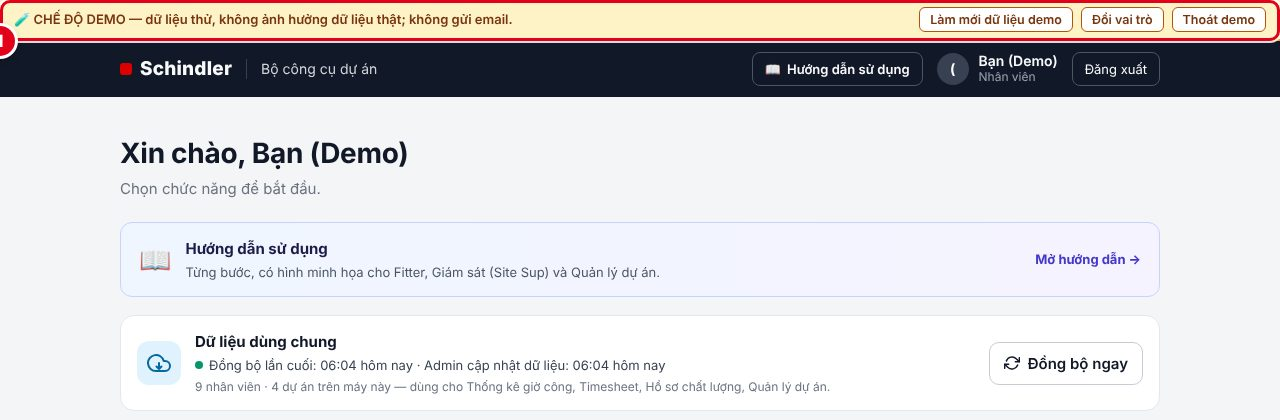
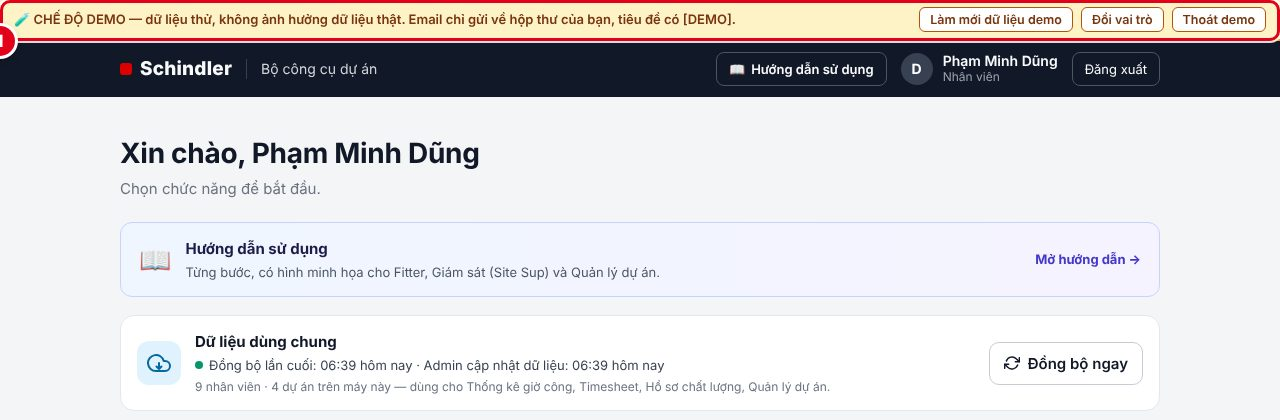
Demo chạy như thật: gửi email (chỉ về người thử, có [DEMO]) và duyệt bảng công trọn luồng
- Người thử đóng vai nhân viên mẫu: Fitter = Phạm Minh Dũng, Site Sup = Trần Thị Bình,
  QLDA = Nguyễn Văn An, Quản trị viên. Đổi vai trò (POST /api/demo/role) chỉ chuyển email
  sang nhân viên khác, GIỮ dữ liệu → thử được Fitter nộp → Site Sup duyệt → QLDA duyệt →
  vào bảng Theo dõi giờ công
- Dữ liệu mẫu: kỳ trước của Fitter chấm đủ chờ nộp, kỳ này chấm đến hôm qua; một bảng công
  chờ Site Sup, một chờ QLDA; nhân viên mẫu khác có email giả <mã>@demo.invalid
- Email demo gửi thật qua Brevo nhưng luôn chỉ tới email người đang thử: tiêu đề [DEMO],
  khung vàng "THƯ DEMO" ghi rõ trong hệ thống thật thư sẽ tới ai; tối đa 60 thư / ngày
- Gợi ý người nhận mail báo cáo ngày trả email người thử; thư tự soạn trong Timesheet có
  [DEMO] ở tiêu đề và dòng đầu thư
- Sửa: hộp Chạy thử nằm trong màn hình bị ẩn nên người chưa được cấp quyền bấm không mở
  được — đưa ra ngoài
- Hộp chọn vai trò ghi tên nhân viên mẫu + 3 bước thử; thanh DEMO, tài liệu hướng dẫn,
  README cập nhật; SW v64

Claude-Session: https://claude.ai/code/session_013Aca6Aq9pjXkV1DmQMR7fz

diff --git a/index.html b/index.html
@@ -169,6 +169,9 @@
   .demo-roles { display: grid; grid-template-columns: repeat(auto-fit, minmax(190px, 1fr)); gap: 10px; margin: 10px 0 6px; }
   .demo-roles button { text-align: left; border: 1px solid #d1d5db; background: #fff; border-radius: 10px; padding: 10px 12px; cursor: pointer; font: inherit; }
   .demo-roles button:hover, .demo-roles button:focus-visible { border-color: #f59e0b; background: #fffbeb; outline: none; }
+  .demo-flow { margin: 4px 0 8px; padding-left: 20px; font-size: 13.5px; color: var(--ink-2); }
+  .demo-flow li { margin: 3px 0; }
+  .demo-keep { font-size: 13px; color: #78350f; background: #fffbeb; border: 1px solid #fde68a; border-radius: 8px; padding: 8px 10px; }
   .demo-roles small { display: block; color: #6b7280; margin-top: 2px; font-size: 12px; }
   .soon-badge { font-size: 11px; font-weight: 600; color: var(--warn-ink); background: var(--warn-bg);
     border: 1px solid var(--warn-line); border-radius: 999px; padding: 1px 8px; white-space: nowrap; }
@@ -379,20 +382,6 @@
     <button type="button" class="btn-install" id="btnInstall">Cài đặt</button>
   </section>
 
-  <dialog class="dlg" id="demoDlg" aria-labelledby="demoTitle">
-    <form method="dialog">
-      <div class="dlg-head"><div><span class="soon-badge">Chạy thử</span><h2 id="demoTitle">Chế độ Demo</h2></div></div>
-      <p>Dùng thử toàn bộ hệ thống với <b>dữ liệu mẫu bịa</b> trên một cơ sở dữ liệu riêng — <b>không ảnh hưởng dữ liệu thật</b>, không gửi email. Chọn vai trò muốn thử:</p>
-      <div class="demo-roles">
-        <button type="button" data-role="admin"><b>Quản trị viên</b><small>Nhân viên, dự án, tài khoản, nạp bảng công</small></button>
-        <button type="button" data-role="pm"><b>Quản lý dự án</b><small>Duyệt bảng công cấp 2, điều phối</small></button>
-        <button type="button" data-role="sitesup"><b>Site Sup</b><small>Duyệt bảng công fitter (cấp 1)</small></button>
-        <button type="button" data-role="staff"><b>Nhân viên / Fitter</b><small>Chấm công, nộp bảng công</small></button>
-      </div>
-      <p class="dlg-sub" id="demoMsg" role="status"></p>
-      <button class="btn-primary" value="cancel" type="submit">Đóng</button>
-    </form>
-  </dialog>
 
   <dialog class="dlg" id="soonDlg" aria-labelledby="soonTitle">
     <form method="dialog">
@@ -408,6 +397,28 @@
   </dialog>
 </main>
 
+<!-- hộp Chạy thử nằm ngoài các màn hình: mở được cả khi chưa đăng nhập / email chưa được cấp quyền -->
+<dialog class="dlg" id="demoDlg" aria-labelledby="demoTitle">
+  <form method="dialog">
+    <div class="dlg-head"><div><span class="soon-badge">Chạy thử</span><h2 id="demoTitle">Chế độ Demo</h2></div></div>
+    <p id="demoIntro">Dùng thử toàn bộ hệ thống với <b>dữ liệu mẫu bịa</b> trên một cơ sở dữ liệu riêng — <b>không ảnh hưởng dữ liệu thật</b>. Nộp, duyệt, trả lại bảng công chạy <b>như thật</b>; email thông báo chỉ gửi về hộp thư của bạn, tiêu đề có <b>[DEMO]</b>. Chọn vai trò muốn thử:</p>
+    <div class="demo-roles">
+      <button type="button" data-role="staff"><b>Fitter</b><small>Phạm Minh Dũng · chấm công, nộp bảng công</small></button>
+      <button type="button" data-role="sitesup"><b>Site Sup</b><small>Trần Thị Bình · duyệt bảng công cấp 1</small></button>
+      <button type="button" data-role="pm"><b>Quản lý dự án</b><small>Nguyễn Văn An · duyệt cấp 2, điều phối</small></button>
+      <button type="button" data-role="admin"><b>Quản trị viên</b><small>Nhân viên, dự án, tài khoản, nạp bảng công</small></button>
+    </div>
+    <ol class="demo-flow">
+      <li><b>Fitter</b>: mở <i>Timesheet cá nhân</i>, lùi về kỳ trước (đã chấm đủ) → bấm <b>Nộp bảng công</b>.</li>
+      <li><b>Đổi vai trò → Site Sup</b>: mở <i>Duyệt bảng công</i> → duyệt (hoặc trả lại kèm lý do).</li>
+      <li><b>Đổi vai trò → Quản lý dự án</b>: duyệt lần 2 → bảng công vào <i>Thống kê giờ công</i>.</li>
+    </ol>
+    <p class="demo-keep" id="demoKeep" hidden>Đổi vai trò <b>giữ nguyên dữ liệu</b> bạn đã làm trong demo. Muốn làm lại từ đầu: bấm <b>Làm mới dữ liệu demo</b> trên thanh vàng.</p>
+    <p class="dlg-sub" id="demoMsg" role="status"></p>
+    <button class="btn-primary" value="cancel" type="submit">Đóng</button>
+  </form>
+</dialog>
+
 <footer>
   <div class="wrap">
     <span>Mỗi chức năng lưu dữ liệu riêng. Dữ liệu Timesheet cá nhân chỉ nằm trên trình duyệt của bạn.</span>
@@ -416,7 +427,7 @@
   </div>
 </footer>
 
-<script src="js/demo.js?v=1"></script>
+<script src="js/demo.js?v=2"></script>
 <script src="js/config.js?v=37"></script>
 <script src="js/db.js?v=37"></script>
 <script src="js/cloud.js?v=42"></script>
@@ -722,11 +733,13 @@
     if (!TsDemo.on) TsDemo.available().then((st) => { if (st.available) btn.hidden = false; });
     btn.addEventListener('click', openDemo);
     dlg.addEventListener('click', (ev) => { if (ev.target === dlg) dlg.close(); });
+    // đang ở demo: chọn vai trò = đổi vai, giữ dữ liệu; chưa ở demo: dựng dữ liệu mẫu mới
+    if (TsDemo.on) { $('demoTitle').textContent = 'Đổi vai trò (Demo)'; $('demoKeep').hidden = false; }
     dlg.querySelectorAll('.demo-roles button').forEach((b) => b.addEventListener('click', async () => {
-      $('demoMsg').textContent = 'Đang dựng dữ liệu mẫu…';
+      $('demoMsg').textContent = TsDemo.on ? 'Đang đổi vai trò…' : 'Đang dựng dữ liệu mẫu…';
       dlg.querySelectorAll('button').forEach((x) => { x.disabled = true; });
-      try { await TsDemo.start(b.dataset.role); }
-      catch (e) { $('demoMsg').textContent = 'Không vào được demo: ' + e.message; dlg.querySelectorAll('button').forEach((x) => { x.disabled = false; }); }
+      try { await (TsDemo.on ? TsDemo.role(b.dataset.role) : TsDemo.start(b.dataset.role)); }
+      catch (e) { $('demoMsg').textContent = (TsDemo.on ? 'Không đổi được vai trò: ' : 'Không vào được demo: ') + e.message; dlg.querySelectorAll('button').forEach((x) => { x.disabled = false; }); }
     }));
     if (location.hash === '#demo') { history.replaceState(null, '', location.pathname); setTimeout(openDemo, 400); }
   }

diff --git a/huong-dan.html b/huong-dan.html
@@ -311,12 +311,20 @@
     </div>
 
     <h3 id="demo">1.4. Chạy thử (Demo) — tập dùng không sợ sai</h3>
-    <p>Muốn thử bấm các nút mà không ảnh hưởng dữ liệu thật? Bấm <span class="btnlike">🧪 Chạy thử (Demo)</span> ở <b>chân trang chủ</b>, chọn vai trò muốn thử.</p>
+    <p>Muốn thử bấm các nút mà không ảnh hưởng dữ liệu thật? Bấm <span class="btnlike">🧪 Chạy thử (Demo)</span> ở <b>chân trang chủ</b> (dùng được cả khi email chưa được cấp quyền), chọn vai trò muốn thử. Mỗi vai trò là một nhân viên mẫu: <b>Fitter</b> — Phạm Minh Dũng, <b>Site Sup</b> — Trần Thị Bình, <b>Quản lý dự án</b> — Nguyễn Văn An.</p>
     <div class="pair">
       <figure class="shot"><img src="docs/huong-dan/demo-dialog.jpg" alt="Hộp chọn vai trò chạy thử" loading="lazy" width="1280" height="800"><figcaption>Chọn vai trò muốn thử</figcaption></figure>
       <figure class="shot"><img src="docs/huong-dan/demo-banner.jpg" alt="Thanh vàng CHẾ ĐỘ DEMO" loading="lazy" width="1280" height="420"><figcaption>Đang ở chế độ demo: thanh vàng luôn hiện ở đầu trang</figcaption></figure>
     </div>
-    <ol class="legend"><li>Thanh vàng <b>CHẾ ĐỘ DEMO</b>: dữ liệu mẫu riêng, <b>không ảnh hưởng dữ liệu thật</b>, không gửi email. Có nút <span class="btnlike">Làm mới dữ liệu demo</span>, <span class="btnlike">Đổi vai trò</span>, <span class="btnlike">Thoát demo</span>.</li></ol>
+    <ol class="legend"><li>Thanh vàng <b>CHẾ ĐỘ DEMO</b>: dữ liệu mẫu riêng, <b>không ảnh hưởng dữ liệu thật</b>. Có nút <span class="btnlike">Làm mới dữ liệu demo</span>, <span class="btnlike">Đổi vai trò</span>, <span class="btnlike">Thoát demo</span>.</li></ol>
+    <p><b>Demo chạy như thật</b> — thử trọn một vòng bảng công:</p>
+    <ol class="steps">
+      <li>Vai <b>Fitter</b>: mở <i>Timesheet cá nhân</i>, bấm <span class="btnlike">‹</span> về kỳ trước (đã chấm đủ) → <span class="btnlike">Nộp bảng công</span>.</li>
+      <li><span class="btnlike">Đổi vai trò</span> → <b>Site Sup</b>: mở <i>Duyệt bảng công</i>, duyệt hoặc trả lại kèm lý do.</li>
+      <li><span class="btnlike">Đổi vai trò</span> → <b>Quản lý dự án</b>: duyệt lần 2 → bảng công tự vào <i>Thống kê giờ công</i>.</li>
+    </ol>
+    <p>Đổi vai trò <b>giữ nguyên dữ liệu</b> đã làm. Muốn làm lại từ đầu: <span class="btnlike">Làm mới dữ liệu demo</span>.</p>
+    <div class="note info"><p>📧 <b>Email trong demo vẫn gửi thật, nhưng chỉ về hộp thư của bạn</b> (email đang đăng nhập). Tiêu đề bắt đầu bằng <b>[DEMO]</b>, đầu thư có khung vàng <b>“THƯ DEMO”</b> ghi rõ trong hệ thống thật thư sẽ gửi tới ai. Thư tự soạn trong Timesheet (Gửi mail, Báo cáo ngày) cũng có <b>[DEMO]</b> ở tiêu đề.</p></div>
     <div class="note warn"><p>Nhớ bấm <b>Thoát demo</b> khi thử xong — chấm công thật phải làm ngoài chế độ demo.</p></div>
   </section>
 
@@ -654,7 +662,7 @@
     <details class="faq"><summary>Không thấy chức năng Duyệt bảng công / Quản lý dự án?</summary><p>Các chức năng này theo <b>vai trò</b> (từ chức danh). Nếu chức danh của bạn đã thay đổi, báo quản trị viên cập nhật; đăng xuất rồi đăng nhập lại.</p></details>
     <details class="faq"><summary>Không nhận được mã đăng nhập?</summary><p>Xem thư mục Spam / Quảng cáo; kiểm tra gõ đúng email; đợi 1 phút rồi bấm gửi lại. Vẫn không được → báo quản trị viên.</p></details>
     <details class="faq"><summary>Site Sup / Quản lý không nhận được bảng công tôi nộp?</summary><p>Người duyệt được xác định theo <b>dự án (WBS)</b> trên các dòng chấm công. Kiểm tra dòng chấm công đã ghi đúng dự án và WBS; báo quản trị viên kiểm tra phân công Site Sup / Quản lý dự án cho dự án đó.</p></details>
-    <details class="faq"><summary>Chế độ Demo có làm mất dữ liệu thật không?</summary><p>Không. Demo dùng cơ sở dữ liệu riêng và tách riêng dữ liệu trên trình duyệt. Bấm <b>Thoát demo</b> là về đúng tài khoản và dữ liệu thật.</p></details>
+    <details class="faq"><summary>Chế độ Demo có làm mất dữ liệu thật không?</summary><p>Không. Demo dùng cơ sở dữ liệu riêng và tách riêng dữ liệu trên trình duyệt. Email demo chỉ gửi về chính bạn (tiêu đề <b>[DEMO]</b>), không tới giám sát / quản lý thật. Bấm <b>Thoát demo</b> là về đúng tài khoản và dữ liệu thật.</p></details>
     <details class="faq"><summary>Muốn in tài liệu hướng dẫn này?</summary><p>Bấm <b>🖨 In / Lưu PDF</b> ở góc trên, chọn máy in hoặc “Lưu dưới dạng PDF”. Mỗi phần in bắt đầu từ trang mới.</p></details>
   </section>
 

diff --git a/tools/timesheet/src/app.jsx b/tools/timesheet/src/app.jsx
@@ -1523,6 +1523,15 @@
         const EMAIL_RE = /^[^@\s,;]+@[^@\s,;]+\.[^@\s,;]+$/;
         const parseEmails = (s) => String(s || '').split(/[,;\s]+/).map(x => x.trim()).filter(Boolean);
         const MAILTO_MAX = 1900; // một số ứng dụng mail cắt / từ chối link mailto dài hơn ~2000 ký tự
+        // chế độ Demo: thư tự soạn ghi rõ là thư demo (tiêu đề [DEMO] + dòng đầu thư)
+        const IS_DEMO = typeof TsDemo !== 'undefined' && !!TsDemo.on;
+        // demo: gợi ý gửi về chính email đăng nhập (người nhận thật trong dữ liệu mẫu chỉ là địa chỉ giả)
+        const demoMyEmail = () => { try { const s = IS_DEMO && Session.current(); return (s && s.email) || ''; } catch (e) { return ''; } };
+        const demoMark = (m) => (IS_DEMO ? {
+            subject: '[DEMO] ' + m.subject,
+            body: '*** THƯ DEMO — dữ liệu chạy thử, không phải bảng công thật ***\n\n' + m.body,
+            shortBody: '*** THƯ DEMO — dữ liệu chạy thử ***\n\n' + m.shortBody,
+        } : m);
 
         function buildMailText(d, profile, period, month, supervisorName) {
             const [y, m] = month.split('-');
@@ -1549,7 +1558,7 @@
             const tail = ['', 'File bảng chấm công Excel đính kèm.', '', 'Trân trọng,', name];
             const body = [...head, leave, ...projects, ...missing, ...tail].join('\n');
             const shortBody = [...head, leave, ...missing, ...tail].join('\n'); // cho link mailto quá dài
-            return { subject, body, shortBody };
+            return demoMark({ subject, body, shortBody });
         }
 
         // Thư báo cáo thi công trong ngày (fitter tự gửi giám sát / quản lý)
@@ -1569,7 +1578,7 @@
             const head = ['Kính gửi Anh/Chị,', '', `Báo cáo thi công ngày ${WEEKDAYS_LONG[weekdayOf(date)]} ${fmtDMY(date)} của ${name}${profile.empId ? ` (${profile.empId})` : ''}:`, ''];
             const tail = ['', list.length ? `Tổng: ${fmtH(total)} giờ (thường ${fmtH(normal)}, tăng ca ${fmtH(total - normal)}).` : 'Hôm nay chưa có dòng chấm công.', '', 'Trân trọng,', name];
             const body = [...head, ...(lines.length ? lines.join('\n\n').split('\n') : []), ...tail].join('\n');
-            return { subject, body, shortBody: body.length > 1500 ? body.slice(0, 1400) + '\n…' : body };
+            return demoMark({ subject, body, shortBody: body.length > 1500 ? body.slice(0, 1400) + '\n…' : body });
         }
 
         const canShareFiles = () => {
@@ -1584,7 +1593,7 @@
         };
 
         function MailPanel({ profile, setProfile, file, mail, supervisorName, onSent, onCancel, noFile, initTo, initCc, toLabel, toHint }) {
-            const [to, setTo] = useState(initTo !== undefined ? initTo : (profile.mailTo || ''));
+            const [to, setTo] = useState(initTo !== undefined ? initTo : (profile.mailTo || demoMyEmail()));
             const [cc, setCc] = useState(initCc !== undefined ? initCc : (profile.mailCc || ''));
             const [subject, setSubject] = useState(mail.subject);
             const [body, setBody] = useState(mail.body);

diff --git a/tools/timesheet/app.js b/tools/timesheet/app.js
@@ -2968,7 +2968,22 @@ function ReportView({
 const EMAIL_RE = /^[^@\s,;]+@[^@\s,;]+\.[^@\s,;]+$/;
 const parseEmails = s => String(s || '').split(/[,;\s]+/).map(x => x.trim()).filter(Boolean);
 const MAILTO_MAX = 1900; // một số ứng dụng mail cắt / từ chối link mailto dài hơn ~2000 ký tự
-
+// chế độ Demo: thư tự soạn ghi rõ là thư demo (tiêu đề [DEMO] + dòng đầu thư)
+const IS_DEMO = typeof TsDemo !== 'undefined' && !!TsDemo.on;
+// demo: gợi ý gửi về chính email đăng nhập (người nhận thật trong dữ liệu mẫu chỉ là địa chỉ giả)
+const demoMyEmail = () => {
+  try {
+    const s = IS_DEMO && Session.current();
+    return s && s.email || '';
+  } catch (e) {
+    return '';
+  }
+};
+const demoMark = m => IS_DEMO ? {
+  subject: '[DEMO] ' + m.subject,
+  body: '*** THƯ DEMO — dữ liệu chạy thử, không phải bảng công thật ***\n\n' + m.body,
+  shortBody: '*** THƯ DEMO — dữ liệu chạy thử ***\n\n' + m.shortBody
+} : m;
 function buildMailText(d, profile, period, month, supervisorName) {
   const [y, m] = month.split('-');
   const kp = `kỳ lương tháng ${parseInt(m, 10)}/${y} (${fmtDMY(period.start)} – ${fmtDMY(period.end)})`;
@@ -2984,11 +2999,11 @@ function buildMailText(d, profile, period, month, supervisorName) {
   const tail = ['', 'File bảng chấm công Excel đính kèm.', '', 'Trân trọng,', name];
   const body = [...head, leave, ...projects, ...missing, ...tail].join('\n');
   const shortBody = [...head, leave, ...missing, ...tail].join('\n'); // cho link mailto quá dài
-  return {
+  return demoMark({
     subject,
     body,
     shortBody
-  };
+  });
 }
 
 // Thư báo cáo thi công trong ngày (fitter tự gửi giám sát / quản lý)
@@ -3006,11 +3021,11 @@ function buildDailyMail(profile, date, rows, bdOf) {
   const head = ['Kính gửi Anh/Chị,', '', `Báo cáo thi công ngày ${WEEKDAYS_LONG[weekdayOf(date)]} ${fmtDMY(date)} của ${name}${profile.empId ? ` (${profile.empId})` : ''}:`, ''];
   const tail = ['', list.length ? `Tổng: ${fmtH(total)} giờ (thường ${fmtH(normal)}, tăng ca ${fmtH(total - normal)}).` : 'Hôm nay chưa có dòng chấm công.', '', 'Trân trọng,', name];
   const body = [...head, ...(lines.length ? lines.join('\n\n').split('\n') : []), ...tail].join('\n');
-  return {
+  return demoMark({
     subject,
     body,
     shortBody: body.length > 1500 ? body.slice(0, 1400) + '\n…' : body
-  };
+  });
 }
 const canShareFiles = () => {
   try {
@@ -3048,7 +3063,7 @@ function MailPanel({
   toLabel,
   toHint
 }) {
-  const [to, setTo] = useState(initTo !== undefined ? initTo : profile.mailTo || '');
+  const [to, setTo] = useState(initTo !== undefined ? initTo : profile.mailTo || demoMyEmail());
   const [cc, setCc] = useState(initCc !== undefined ? initCc : profile.mailCc || '');
   const [subject, setSubject] = useState(mail.subject);
   const [body, setBody] = useState(mail.body);

diff --git a/js/demo.js b/js/demo.js
@@ -6,7 +6,9 @@
 //  2. Dữ liệu lưu trên trình duyệt (localStorage / sessionStorage / IndexedDB) được ĐỔI TÊN KHOÁ có tiền tố "demo:" / "demo_",
 //     nên bảng công cá nhân, phiên đăng nhập, bản sao dữ liệu… của người dùng thật không bị đọc hay ghi đè,
 //     và những gì nhập trong demo không bị đẩy lên máy chủ thật khi thoát.
-//  3. Thanh "CHẾ ĐỘ DEMO" luôn hiện ở đầu trang với nút Làm mới dữ liệu / Thoát demo.
+//  3. Thanh "CHẾ ĐỘ DEMO" luôn hiện ở đầu trang với nút Làm mới dữ liệu / Đổi vai trò / Thoát demo.
+//  4. Đổi vai trò giữ nguyên dữ liệu trên máy chủ (thử trọn luồng nộp → duyệt); email thông báo vẫn gửi thật nhưng
+//     chỉ về email của người đang thử, tiêu đề có [DEMO].
 //
 // File này phải được nạp TRƯỚC mọi script dùng localStorage / IndexedDB (db.js, session.js…).
 (function () {
@@ -79,6 +81,10 @@
       location.href = ROOT + 'index.html';
     });
   };
+  // đổi vai trò, GIỮ dữ liệu trên máy chủ; dữ liệu trên trình duyệt của vai cũ bị xoá (vai mới tải lại từ máy chủ)
+  api.role = function (role) {
+    return post('/api/demo/role', { role: role }).then(function () { wipe(); location.href = ROOT + 'index.html'; });
+  };
   api.reset = function () {
     return post('/api/demo/reset', {}).then(function () { wipe(); location.reload(); });
   };
@@ -105,7 +111,7 @@
     bar.setAttribute('role', 'status');
     bar.style.cssText = 'position:sticky;top:0;z-index:2147483000;display:flex;flex-wrap:wrap;align-items:center;gap:8px 14px;padding:7px 14px;' +
       'background:#fef3c7;color:#78350f;border-bottom:2px solid #f59e0b;font:600 13px/1.35 system-ui,-apple-system,"Segoe UI",Roboto,Arial,sans-serif';
-    bar.innerHTML = '<span>🧪 CHẾ ĐỘ DEMO — dữ liệu thử, không ảnh hưởng dữ liệu thật; không gửi email.</span>' +
+    bar.innerHTML = '<span>🧪 CHẾ ĐỘ DEMO — dữ liệu thử, không ảnh hưởng dữ liệu thật. Email chỉ gửi về hộp thư của bạn, tiêu đề có [DEMO].</span>' +
       '<span style="margin-left:auto;display:flex;gap:8px"><button type="button" data-a="reset">Làm mới dữ liệu demo</button>' +
       '<button type="button" data-a="role">Đổi vai trò</button><button type="button" data-a="stop">Thoát demo</button></span>';
     bar.querySelectorAll('button').forEach(function (b) {

diff --git a/tools/timesheet/index.html b/tools/timesheet/index.html
@@ -11,7 +11,7 @@
     <link rel="apple-touch-icon" href="../../icons/apple-touch-icon.png">
     <script src="../../js/pwa.js?v=36" defer></script>
     <!-- Bộ công cụ: phải đăng nhập ở trang chủ trước khi vào -->
-<script src="../../js/demo.js?v=1"></script>
+<script src="../../js/demo.js?v=2"></script>
     <script src="../../js/session.js?v=44"></script>
     <script>Session.guard('timesheet');</script>
     <!-- Dữ liệu Dự án dùng CHUNG với "Thống kê giờ công dự án" (cùng IndexedDB, nguồn Google Drive) -->
@@ -144,6 +144,6 @@
     <!-- Mã ứng dụng đã biên dịch sẵn từ src/app.jsx (npm run build) — sửa src/app.jsx, không sửa app.js -->
     <script src="labor.js?v=40"></script>
     <script src="tssync.js?v=2"></script>
-    <script src="app.js?v=47"></script>
+    <script src="app.js?v=48"></script>
 </body>
 </html>

diff --git a/tools/tiendotm/index.html b/tools/tiendotm/index.html
@@ -10,7 +10,7 @@
 <link rel="apple-touch-icon" href="../../icons/apple-touch-icon.png">
 <script src="../../js/pwa.js?v=36" defer></script>
 <!-- Bộ công cụ: chỉ Quản lý dự án và Site Sup (và quản trị viên) được vào — xem js/session.js -->
-<script src="../../js/demo.js?v=1"></script>
+<script src="../../js/demo.js?v=2"></script>
 <script src="../../js/session.js?v=44"></script>
 <script>Session.guard('tiendotm');</script>
 <!-- Dữ liệu Dự án dùng CHUNG với "Thống kê giờ công dự án" (cùng IndexedDB, nguồn Google Drive) -->

diff --git a/admin.html b/admin.html
@@ -10,7 +10,7 @@
 <link rel="apple-touch-icon" href="icons/apple-touch-icon.png">
 <script src="js/pwa.js?v=36" defer></script>
 <!-- Chỉ quản trị viên: dữ liệu Nhân viên, Dự án, Bảng công (nạp Excel hàng tháng) và Tài khoản & phân quyền -->
-<script src="js/demo.js?v=1"></script>
+<script src="js/demo.js?v=2"></script>
 <script src="js/session.js?v=44"></script>
 <script>Session.guard('admin'); window.PAGE_TOOL = 'admin';</script>
 <link rel="stylesheet" href="css/style.css?v=37">

diff --git a/tools/accounts/index.html b/tools/accounts/index.html
@@ -9,7 +9,7 @@
 <link rel="stylesheet" href="style.css?v=6">
 <script>if (/[?&]embed=1/.test(location.search)) document.documentElement.classList.add('embed');   // nhúng trong trang Quản trị: bỏ thanh đầu</script>
 <!-- Dữ liệu trên máy (IndexedDB) — để đưa EE Data + Dự án hiện có lên máy chủ -->
-<script src="../../js/demo.js?v=1"></script>
+<script src="../../js/demo.js?v=2"></script>
 <script src="../../js/db.js?v=37"></script>
 </head>
 <body>

diff --git a/tracking.html b/tracking.html
@@ -10,7 +10,7 @@
 <link rel="apple-touch-icon" href="icons/apple-touch-icon.png">
 <script src="js/pwa.js?v=36" defer></script>
 <!-- Đăng nhập ở trang chủ Bộ công cụ; chưa đăng nhập thì chuyển về đó rồi quay lại đây -->
-<script src="js/demo.js?v=1"></script>
+<script src="js/demo.js?v=2"></script>
 <script src="js/session.js?v=44"></script>
 <script>Session.guard('tracking');</script>
 <link rel="stylesheet" href="css/style.css?v=37">

diff --git a/tools/projectplan/index.html b/tools/projectplan/index.html
@@ -9,7 +9,7 @@
 <link rel="icon" type="image/png" href="../../icons/favicon-64.png">
 <link rel="apple-touch-icon" href="../../icons/apple-touch-icon.png">
 <script src="../../js/pwa.js?v=36" defer></script>
-<script src="../../js/demo.js?v=1"></script>
+<script src="../../js/demo.js?v=2"></script>
 <script src="../../js/session.js?v=44"></script>
 <script>Session.guard('projectplan');</script>
 <script src="../../js/config.js?v=37"></script>

diff --git a/tools/approvals/index.html b/tools/approvals/index.html
@@ -8,7 +8,7 @@
 <link rel="icon" type="image/png" href="../../icons/favicon-64.png">
 <link rel="stylesheet" href="../accounts/style.css?v=5">
 <link rel="stylesheet" href="style.css?v=1">
-<script src="../../js/demo.js?v=1"></script>
+<script src="../../js/demo.js?v=2"></script>
 <script src="../../js/session.js?v=44"></script>
 <script>Session.guard('approvals');</script>
 </head>
